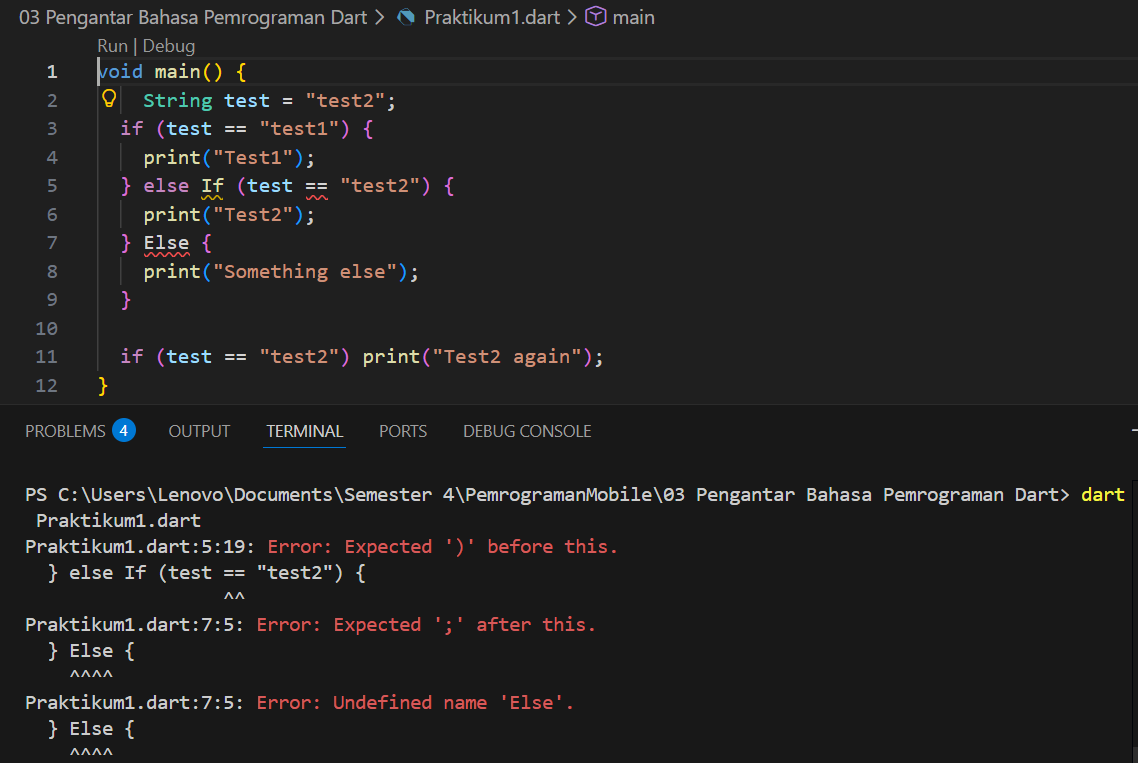
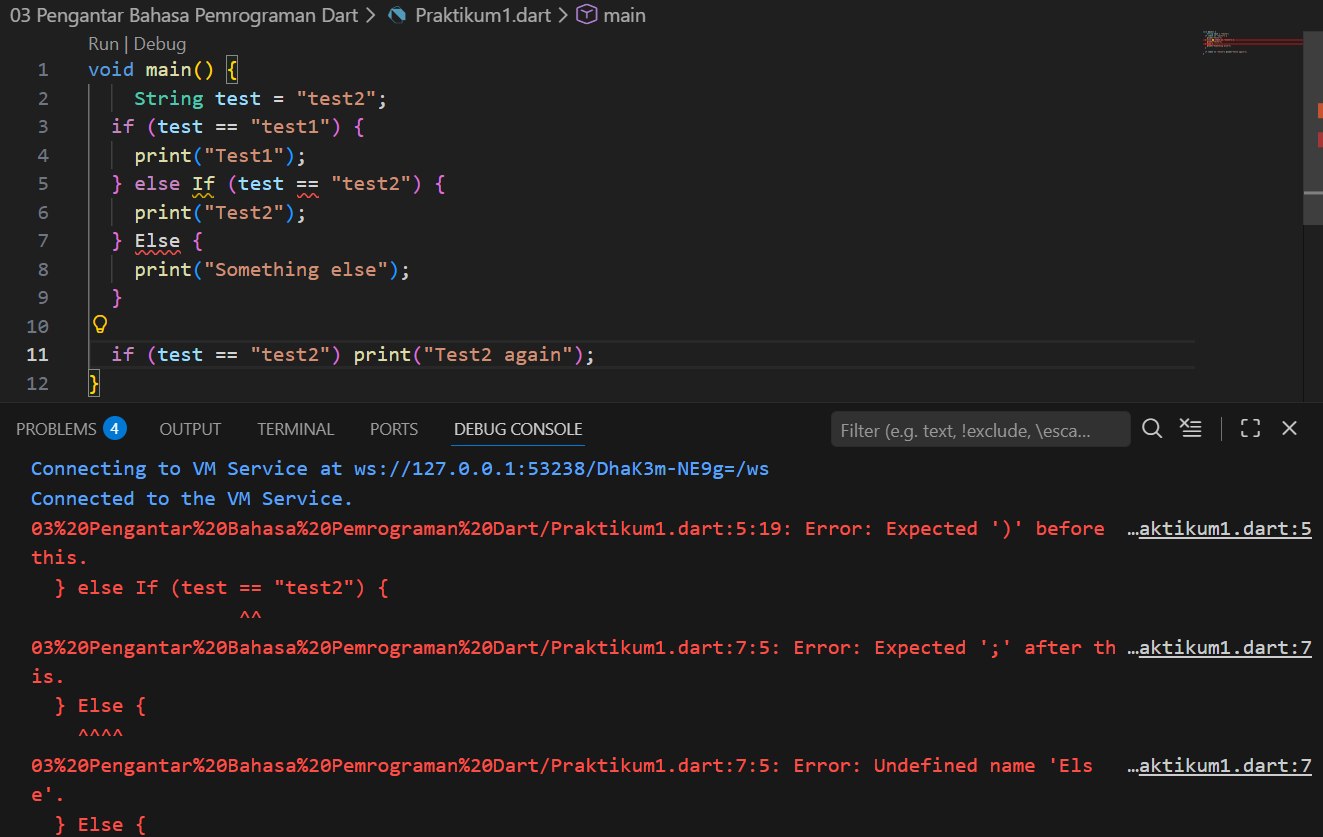
Praktikum 1

diff --git a/03 Pengantar Bahasa Pemrograman Dart/Praktikum1.dart b/03 Pengantar Bahasa Pemrograman Dart/Praktikum1.dart
@@ -1,12 +1,19 @@
 void main() {
-    String test = "test2";
+  String test = "test2";
   if (test == "test1") {
     print("Test1");
-  } else If (test == "test2") {
+  } else if (test == "test2") {
     print("Test2");
-  } Else {
+  } else {
     print("Something else");
   }
 
   if (test == "test2") print("Test2 again");
+
+    bool testBaru = true;
+  if (testBaru) {
+    print("Kebenaran");
+  } else {
+    print("Bukan Kebenaran");
+  }
 }
